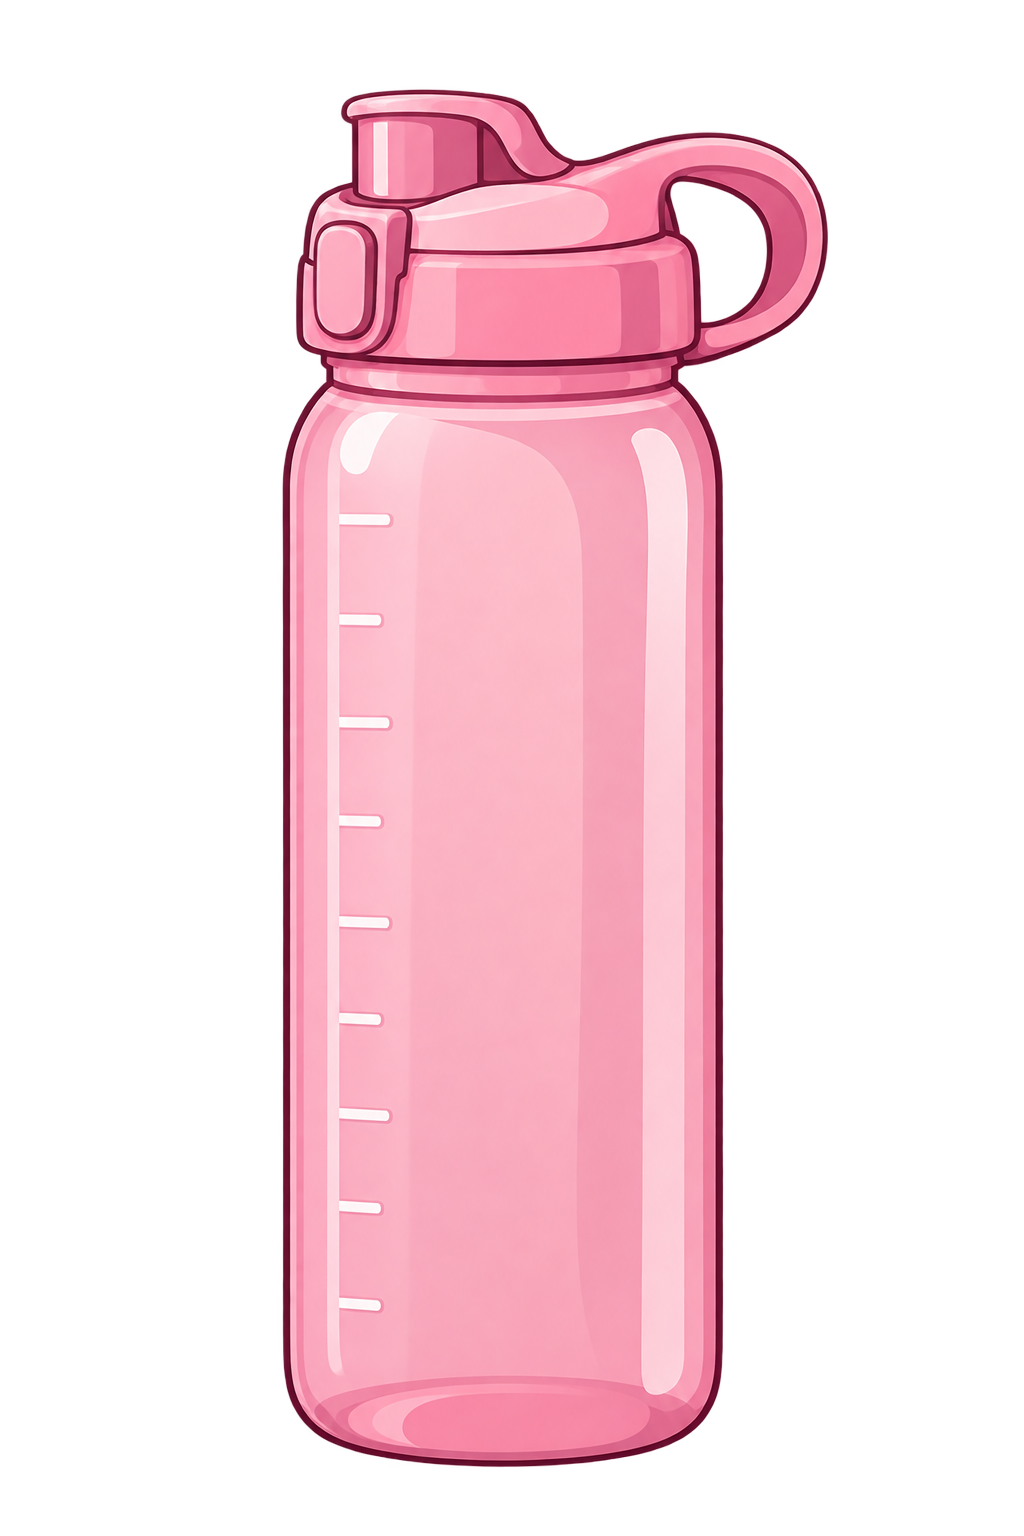
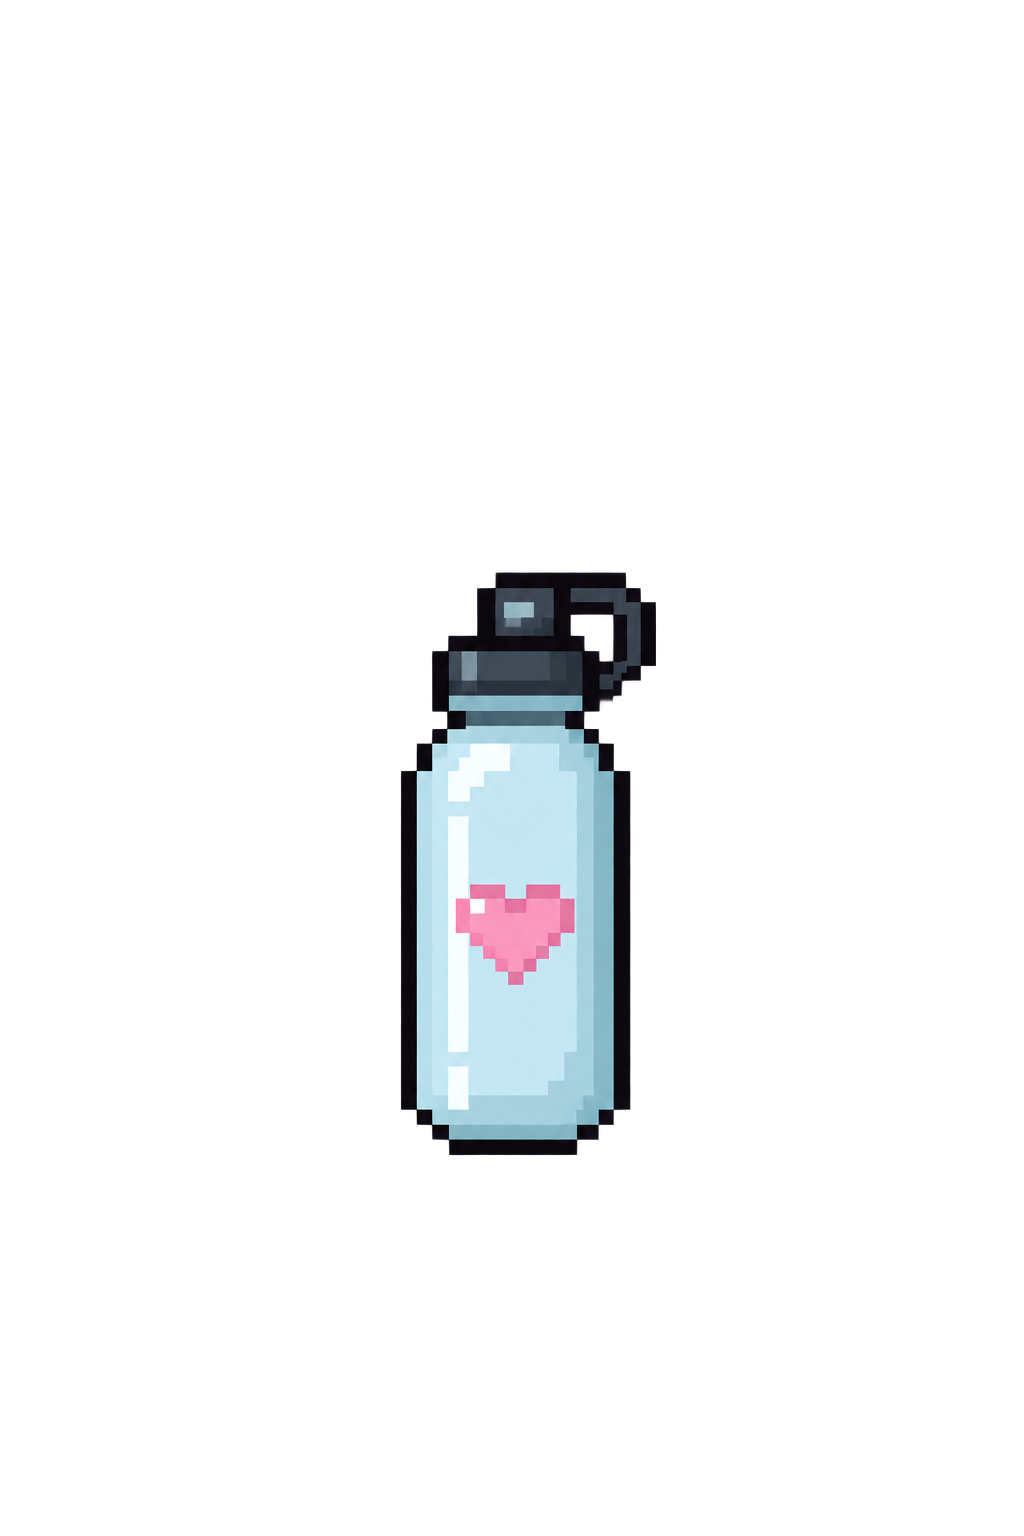
Add background, junk food, junk food text

diff --git a/main.py b/main.py
@@ -7,23 +7,30 @@ pygame.init()
 
 WIDTH = 900
 HEIGHT = 500
-
-# whole level is wider than the screen
 WORLD_WIDTH = 3000
 
 # colors
-PINK = (255, 220, 235)
 DARK_PINK = (210, 80, 140)
+WHITE = (255, 255, 255)
 
 # create game window
 screen = pygame.display.set_mode((WIDTH, HEIGHT))
 pygame.display.set_caption("75 Hard: Lav Edition")
 
-# clock
 clock = pygame.time.Clock()
-
-# font
 font = pygame.font.Font(None, 36)
+
+
+# ---------------- BACKGROUND ----------------
+
+background_image = pygame.image.load(
+    "assets/background.png"
+).convert()
+
+background_image = pygame.transform.scale(
+    background_image,
+    (WIDTH, HEIGHT)
+)
 
 
 # ---------------- PLAYER IMAGES ----------------
@@ -88,8 +95,8 @@ jump_frames = [
 
 # ---------------- WATER IMAGE ----------------
 
-water_width = 45
-water_height = 70
+water_width = 40
+water_height = 65
 
 water_image = pygame.image.load(
     "assets/water_bottle.png"
@@ -101,9 +108,23 @@ water_image = pygame.transform.scale(
 )
 
 
+# ---------------- JUNK FOOD IMAGE ----------------
+
+junk_width = 90
+junk_height = 60
+
+junk_image = pygame.image.load(
+    "assets/junk_food.png"
+).convert_alpha()
+
+junk_image = pygame.transform.scale(
+    junk_image,
+    (junk_width, junk_height)
+)
+
+
 # ---------------- PLAYER SETTINGS ----------------
 
-# Lav's position inside the world
 lav_x = 100
 lav_y = 350
 
@@ -128,17 +149,28 @@ jump_animation_speed = 0.12
 
 # bottle 1
 water_1_x = 650
-water_1_y = 380
+water_1_y = 385
 water_1_collected = False
 
-# bottle 2 - farther into the world
+# bottle 2
 water_2_x = 1200
-water_2_y = 380
+water_2_y = 385
 water_2_collected = False
 
-# water counter
 water_count = 0
 water_goal = 5
+
+
+# ---------------- JUNK FOOD OBSTACLE ----------------
+
+junk_x = 900
+junk_y = 390
+
+# has Lav hit the junk food?
+junk_hit = False
+
+# how long the message stays on screen
+junk_message_timer = 0
 
 
 # ---------------- CAMERA ----------------
@@ -152,22 +184,24 @@ running = True
 
 while running:
 
-    # close game
+    # ---------------- EVENTS ----------------
+
     for event in pygame.event.get():
+
         if event.type == pygame.QUIT:
             running = False
 
-    # keyboard input
+
+    # ---------------- KEYBOARD ----------------
+
     keys = pygame.key.get_pressed()
 
 
     # ---------------- MOVEMENT ----------------
 
-    # move left through world
     if keys[pygame.K_LEFT] and lav_x > 0:
         lav_x -= lav_speed
 
-    # move right through world
     if keys[pygame.K_RIGHT] and lav_x < WORLD_WIDTH - lav_width:
         lav_x += lav_speed
 
@@ -215,21 +249,19 @@ while running:
 
     # ---------------- CAMERA ----------------
 
-    # camera follows Lav
     camera_x = lav_x - WIDTH // 2
 
-    # don't go before beginning of world
+    # don't scroll before beginning of world
     if camera_x < 0:
         camera_x = 0
 
-    # don't go past end of world
+    # don't scroll past end of world
     if camera_x > WORLD_WIDTH - WIDTH:
         camera_x = WORLD_WIDTH - WIDTH
 
 
-    # ---------------- COLLISION ----------------
+    # ---------------- COLLISION RECTS ----------------
 
-    # Lav's collision box
     lav_rect = pygame.Rect(
         lav_x,
         lav_y,
@@ -237,7 +269,6 @@ while running:
         lav_height
     )
 
-    # bottle 1 collision box
     water_1_rect = pygame.Rect(
         water_1_x,
         water_1_y,
@@ -245,7 +276,6 @@ while running:
         water_height
     )
 
-    # bottle 2 collision box
     water_2_rect = pygame.Rect(
         water_2_x,
         water_2_y,
@@ -253,53 +283,85 @@ while running:
         water_height
     )
 
-    # collect bottle 1
+    junk_rect = pygame.Rect(
+        junk_x,
+        junk_y,
+        junk_width,
+        junk_height
+    )
+
+
+    # ---------------- WATER COLLISION ----------------
+
     if not water_1_collected and lav_rect.colliderect(water_1_rect):
         water_1_collected = True
         water_count += 1
 
-    # collect bottle 2
     if not water_2_collected and lav_rect.colliderect(water_2_rect):
         water_2_collected = True
         water_count += 1
 
 
+    # ---------------- JUNK FOOD COLLISION ----------------
+
+    if not junk_hit and lav_rect.colliderect(junk_rect):
+
+        junk_hit = True
+
+        # show message for about 2 seconds
+        junk_message_timer = 120
+
+        print("Oops! Junk food 😭")
+
+
     # ---------------- SCREEN POSITIONS ----------------
 
-    # convert world positions to screen positions
     lav_screen_x = lav_x - camera_x
 
     water_1_screen_x = water_1_x - camera_x
     water_2_screen_x = water_2_x - camera_x
 
+    junk_screen_x = junk_x - camera_x
 
-    # ---------------- DRAW EVERYTHING ----------------
 
-    # background
-    screen.fill(PINK)
+    # ---------------- DRAW BACKGROUND ----------------
 
-    # ground
-    pygame.draw.rect(
-        screen,
-        DARK_PINK,
-        (0, 450, WIDTH, 50)
+    # repeat background so scrolling continues
+    background_offset = camera_x % WIDTH
+
+    screen.blit(
+        background_image,
+        (-background_offset, 0)
+    )
+
+    screen.blit(
+        background_image,
+        (WIDTH - background_offset, 0)
     )
 
 
     # ---------------- DRAW WATER ----------------
 
-    # bottle 1
     if not water_1_collected:
         screen.blit(
             water_image,
             (water_1_screen_x, water_1_y)
         )
 
-    # bottle 2
     if not water_2_collected:
         screen.blit(
             water_image,
             (water_2_screen_x, water_2_y)
+        )
+
+
+    # ---------------- DRAW JUNK FOOD ----------------
+
+    # only draw junk food if it has NOT been hit
+    if not junk_hit:
+        screen.blit(
+            junk_image,
+            (junk_screen_x, junk_y)
         )
 
 
@@ -364,10 +426,27 @@ while running:
     )
 
 
-    # show finished frame
-    pygame.display.update()
+    # ---------------- JUNK FOOD MESSAGE ----------------
 
-    # 60 FPS
+    if junk_message_timer > 0:
+
+        junk_text = font.render(
+            "Oops! Junk food!",
+            True,
+            WHITE
+        )
+
+        screen.blit(
+            junk_text,
+            (WIDTH // 2 - 100, 70)
+        )
+
+        junk_message_timer -= 1
+
+
+    # ---------------- UPDATE SCREEN ----------------
+
+    pygame.display.update()
     clock.tick(60)
 
 
